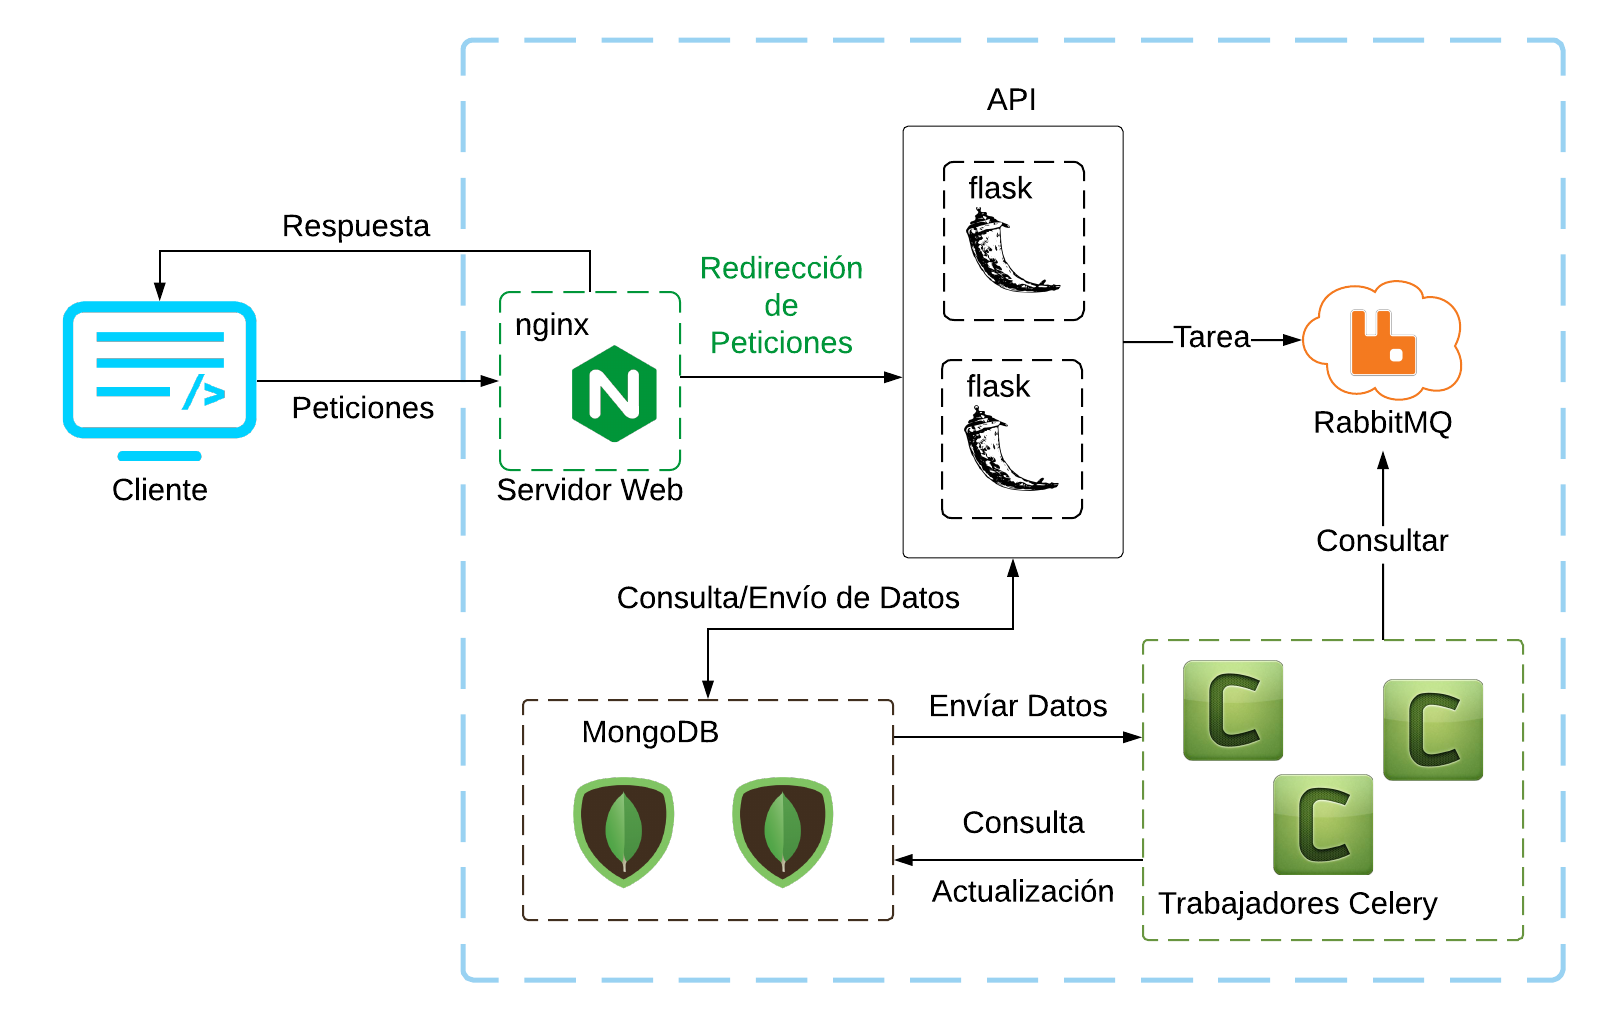
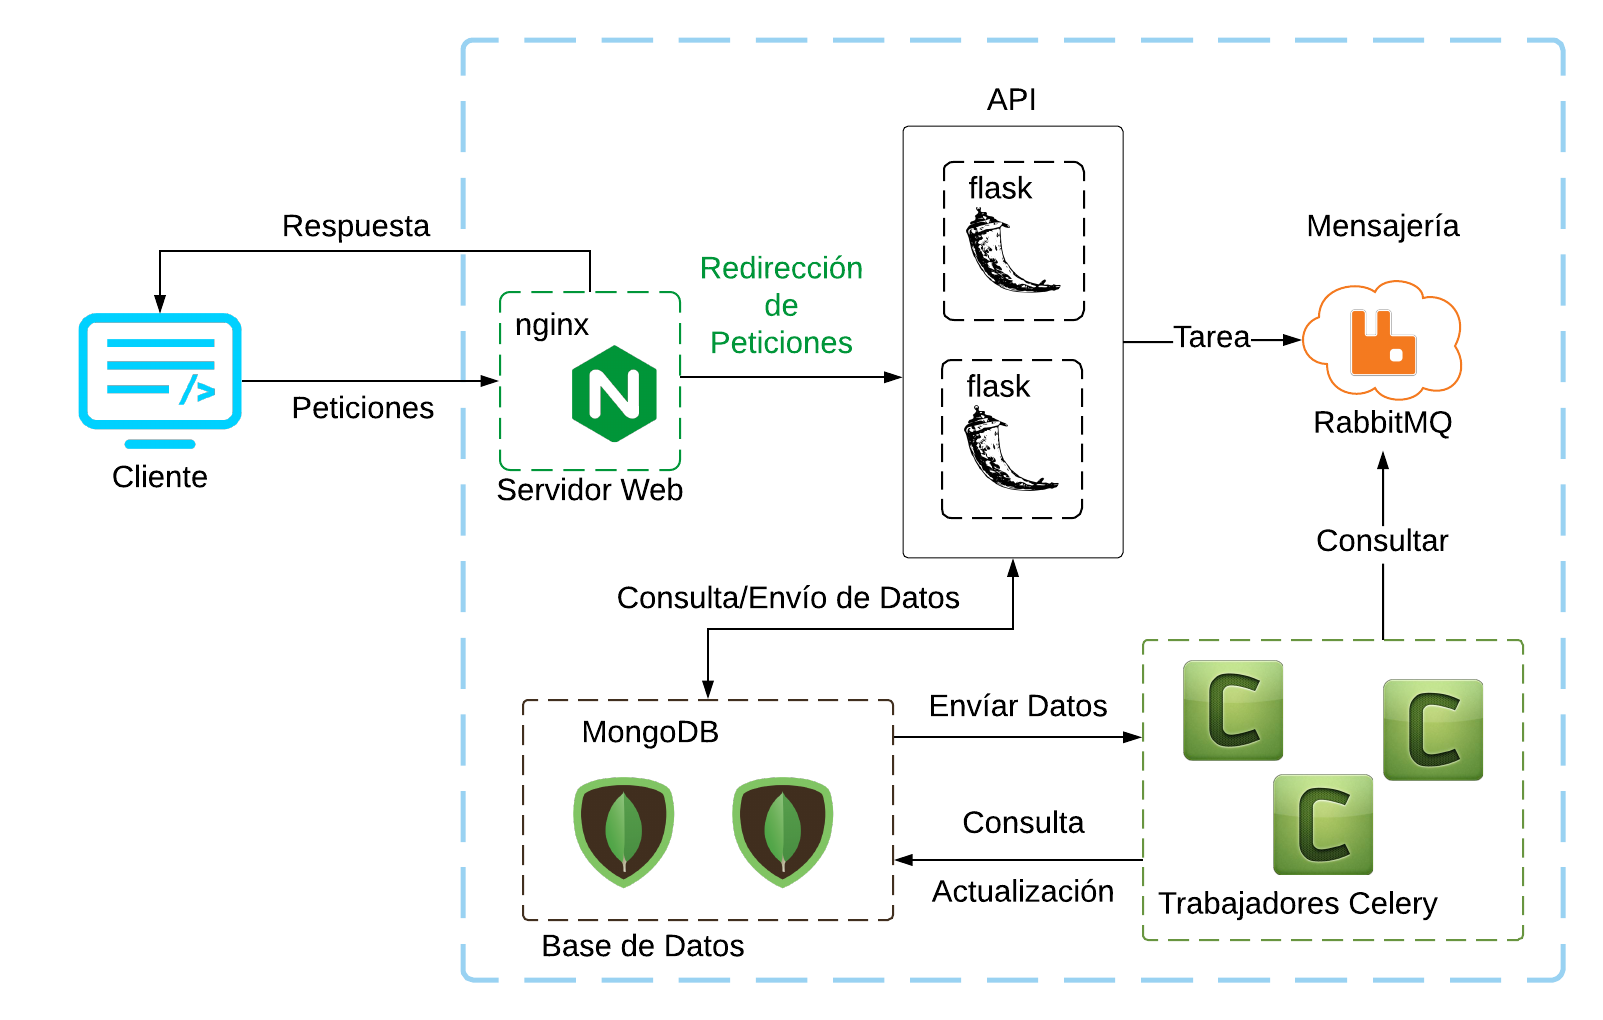
servidor web

Changed region(s): [[0.0312, 0.2735, 0.1871, 0.4863], [0.3431, 0.9118, 0.4679, 0.9422], [0.811, 0.2127, 0.9046, 0.2431]]

diff --git a/chapters/3.tex b/chapters/3.tex
@@ -4,7 +4,7 @@
 
 Para lograr cumplir con los objetivos planteados en el Capítulo 2, es necesario definir un
 esquema o metodología de trabajo que permita la elaboración de un conjunto de
-lineamientos de manera estructurada y organizada. Por lo tanto, se hace uso de el método de 
+lineamientos de manera estructurada y organizada. Por lo tanto, se hace uso de el método de
 Desarrollo Rápido de Aplicaciones (RAD), el cual permite la iteración rápida y continua
 de pequeños objetivos para alcanzar la meta final.
 
@@ -32,20 +32,41 @@ La misma está desarrollada como un servicio web API conformado por:
 \end{itemize}
 
 La siguiente figura representa la vista general de la arquitectura de la aplicación, y como la misma interactuá con
-las aplicaciones clientes que consumen el servicio.
+las aplicaciones clientes que consumen el servicio:
 
 \begin{figure}[H]
 	\centering
-		\includegraphics[width=.6\textwidth]{figures/diagram_general}
+		\includegraphics[width=1\textwidth]{figures/diagram_general}
 	\caption{Arquitectura general de la aplicación.}
-	\label{fig:diagram_general}}
+	\label{fig:diagram_general}
 
 \end{figure}
+
+\subsection{Servidor Web}
+
+El servidor web que atiende las solicitudes en primera instancia es Nginx,
+el cual funciona como un intermediario entre el cliente y el API que responde dicha solicitud.
+Nginx permite balancear la carga de trabajo entre múltiples servidores que contienen la aplicación mediante el algoritmo de round robin,
+de tal forma que cada servidor es utilizado de forma equitativa, tal como se muestra en la siguiente figura:
+
+\begin{figure}[H]
+	\centering
+		\includegraphics[width=0.9\textwidth]{figures/round_robin}
+	\caption{Algoritmo de round robin para la distribución de peticiones de Nginx.}
+	\label{fig:round_robin}
+\end{figure}
+
+Una vez la petición ha sido asignada el servidor web, donde el API esta alojado, este procesa la solicitud y genera una respuesta de vuelta al cliente.
+Este servidor web es UWSGI, y en conjunto con Flask y el resto de las tecnologías que trabajan en conjunto con el API.
+
+
+
 
 
 \subsection{API}
 
-El servicio web, diseñado para atender las solicitudes de extracción y consulta de las revisiones, hace uso del lenguaje de programación Python en su versión 2.7.10 y el uso del framework Flask v0.12. 
+El servicio web, diseñado para atender las solicitudes de extracción y consulta de las revisiones, hace uso del lenguaje de programación Python
+en su versión \texttt{2.7.10} y el uso del framework Flask \texttt{v0.12}.
 Ambas tecnologías permiten la asignación de rutas específicas para cada módulo
 y la atención de peticiones.
 
@@ -63,25 +84,28 @@ otro tipo de entrada que sea necesaria para procesar la solicitud; por ejemplo, 
 
 
 
-Algunos de estos procesos como el de extracción de historiales son llevados a cabo por medio de Celery. Entre los componentes de la 
-aplicación existen múltiples computadores denominados nodos que están conectados entre si por medio de RabbitMQ.
-Cada nodo ejecuta un proceso de Celery llamado trabajador (worker), que constantemente esta en la búsqueda de tareas para su 
-ejecución. Estas tareas son generadas desde la aplicación principal que recibe las peticiones de un cliente, en donde se 
-genera un identificador único para cada una de ellas y se colocan en una cola de espera por medio de RabbitMQ. Cuando un nodo 
-worker extrae una tarea de la cola de espera, el mismo la ejecuta en segundo plano y genera, de forma constante, mensajes que
-indican el progreso de ejecución hasta su culminación.
+Algunos de estos procesos como el de extracción de historiales son llevados a cabo por medio de Celery.
+Entre los componentes de la aplicación existen múltiples computadores denominados nodos que están
+conectados entre si por medio de RabbitMQ.
+Cada nodo ejecuta un proceso de Celery llamado trabajador (worker), que constantemente esta en la
+búsqueda de tareas para su ejecución.
+Estas tareas son generadas desde la aplicación principal que recibe las peticiones de un cliente,
+en donde se genera un identificador único para cada una de ellas y se colocan en una cola de espera
+por medio de RabbitMQ.
+Cuando un nodo worker extrae una tarea de la cola de espera, el mismo la ejecuta en segundo plano y
+ genera, de forma constante, mensajes que indican el progreso de ejecución hasta su culminación.
 
 
 El API consta de las siguientes rutas de acceso (endpoints):
 
 \begin{itemize}
-	\item /api/v1/articles
-	\item /api/v1/revisions
-	\item /api/v1/extract
-	\item /api/v1/avg
-	\item /api/v1/count
-	\item /api/v1/mode
-	\item /api/v1/status/<task_id>
+	\item \texttt{/api/v1/articles}
+	\item \texttt{/api/v1/revisions}
+	\item \texttt{/api/v1/extract}
+	\item \texttt{/api/v1/avg}
+	\item \texttt{/api/v1/count}
+	\item \texttt{/api/v1/mode}
+	\item \texttt{/api/v1/status}
 \end{itemize}
 
 * Nginx
@@ -89,13 +113,15 @@ El API consta de las siguientes rutas de acceso (endpoints):
 
 \subsubsection{Extracción de Historiales}
 
-Para la extracción de historiales se hace uso de la ruta de acceso /api/v1/extract, la cual tiene como parámetros:
-title, que se refiere al título del del artículo; url, representa la ruta completa de un artículo, por ejemplo: 
-https://en.wikipedia.org/wiki/The_Lord_of_the_Rings; y por último, locale, el cual índica el idioma del artículo y 
-es completamente opcional, puesto que el sistema asume el inglés como lenguaje por defecto o lo extrae del parámetro 
-url. Es necesario proporcionar el parámetro url o title de forma obligatoria para poder llevar a cabo la extracción.
+Para la extracción de historiales se hace uso de la ruta de acceso \texttt{/api/v1/extract}, la cual
+tiene como parámetros:
+\texttt{title}, que se refiere al título del del artículo; \texttt{url}, representa la ruta completa de un artículo, por ejemplo:
+\texttt{https://en.wikipedia.org/wiki/The\_Lord\_of\_the\_Rings}; y por último, \texttt{locale}, el cual índica el idioma del artículo y
+es completamente opcional, puesto que el sistema asume el inglés como lenguaje por defecto o lo extrae del parámetro
+\texttt{url}.
+Es necesario proporcionar el parámetro \texttt{url} o \texttt{title} de forma obligatoria para poder llevar a cabo la extracción.
 
-En la siguiente figura se puede apreciar dos ejemplos del uso de los parámetros url, title y locale.
+En la siguiente figura se puede apreciar dos ejemplos del uso de los parámetros \texttt{url}, \texttt{title} y \texttt{locale}.
 
 \begin{figure}[H]
 	\centering
@@ -104,8 +130,9 @@ En la siguiente figura se puede apreciar dos ejemplos del uso de los parámetros
 	\label{fig:extract_url_format}
 \end{figure}
 
-Una vez recibida la petición, se genera el id de la tarea, se coloca en la cola de espera y se construye la respuesta a la petición
-con un nuevo URL que contiene id anteriormente mencionado y el nombre del proceso, extrat_article. Este URL permite consultar el progreso del proceso de extracción y puede ser apreciado en la siguiente figura:
+Una vez recibida la petición, se genera el identificador de la tarea, se coloca en la cola de espera y se construye la respuesta a la petición
+con un nuevo URL que contiene id anteriormente mencionado y el nombre del proceso, \texttt{ extract\_article }.
+Este URL permite consultar el progreso del proceso de extracción y puede ser apreciado en la siguiente figura:
 
 \begin{figure}[H]
 	\centering
@@ -114,8 +141,11 @@ con un nuevo URL que contiene id anteriormente mencionado y el nombre del proces
 	\label{fig:extract_response}
 \end{figure}
 
- y se ubica en una cola de espera hasta que algún nodo worker la tome. Las tareas en cola de espera se les asocia un número de identificación único, 
-llamado id, y son atendidas por algún nodo de Celery que este desocupado. Este nodo inicia la tarea como un proceso  
+
+
+ y se ubica en una cola de espera hasta que algún nodo worker la tome. Las tareas en cola de espera se les asocia un número de
+ identificación único,
+llamado id, y son atendidas por algún nodo de Celery que este desocupado. Este nodo inicia la tarea como un proceso
 
 
 * Endpoints de extracción a wikipedia
@@ -127,9 +157,9 @@ llamado id, y son atendidas por algún nodo de Celery que este desocupado. Este 
 \subsubsection{Consultas}
 
 * Revisiones
-* Articulos
+* Artículos
 * Parametros de filtro
-* Paginacion
+* Paginación
 * Consultas AVG, COUNT, MODE
 
 \subsubsection{Almacenamiento}

diff --git a/main.tex b/main.tex
@@ -9,6 +9,7 @@
 \usepackage{graphicx}
 \usepackage[font=footnotesize,labelfont=bf,justification=centering,textfont=it]{caption}
 \usepackage{float}
+\usepackage{hyperref}
 \allsectionsfont{\mdseries\scshape}
 \SelectInputMappings{%
   aacute={á},
